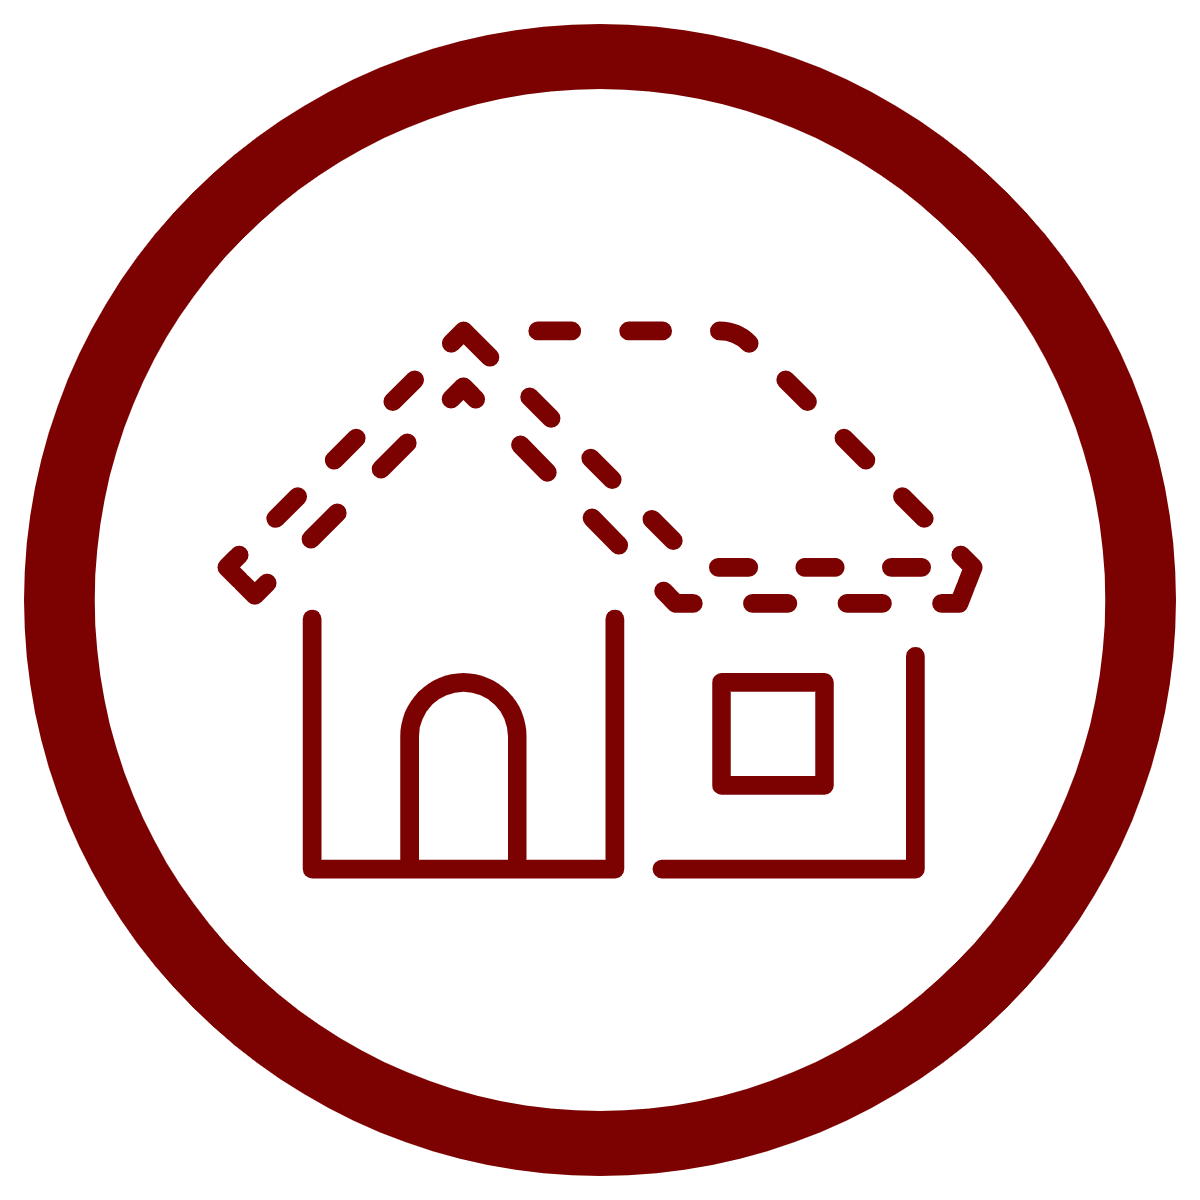
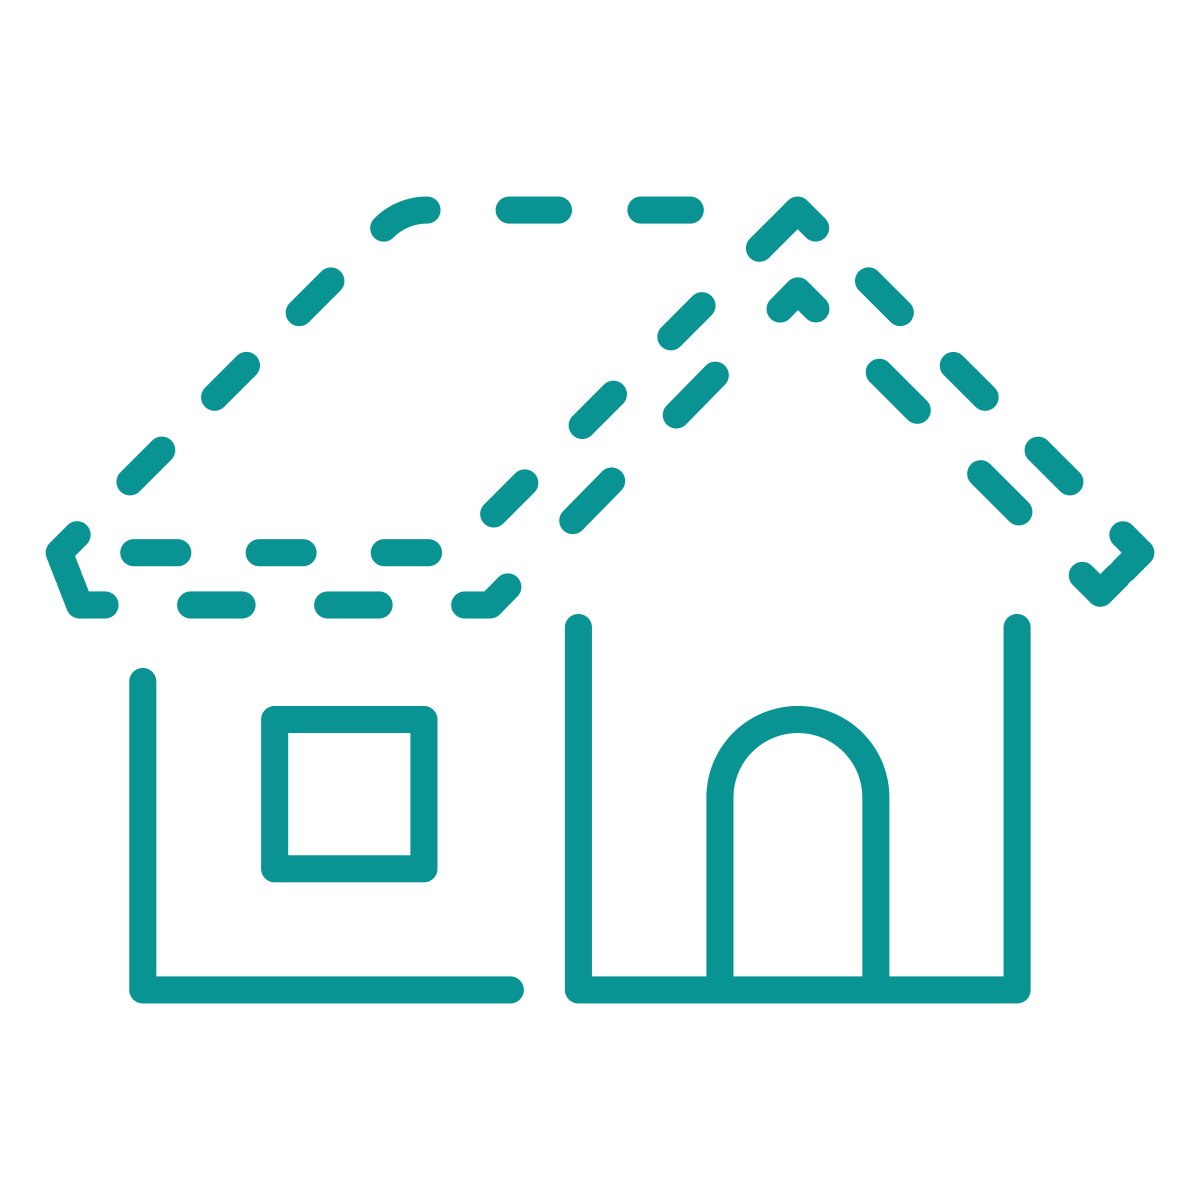
Redesign, shoutout kaylee

diff --git a/src/components/css/services.css b/src/components/css/services.css
@@ -1,35 +1,38 @@
 .container {
   height: auto;
   width: 100vw;
+  background-color: rgb(223, 223, 223);
 }
 
 .logoContainer {
   height: 150px;
   width: 100vw;
-  background-color: white;
+  background-color: whitesmoke;
 }
 /* end logo */
 
 .banner{
   height: 260px;
   width: 100vw;
-  background-image: linear-gradient(#a50101, #7c0101);
+  background-image: linear-gradient(#099393, #057272);
   display: flex;
   flex-direction: column;
 }
 
-.banner h2 {
-  color: whitesmoke;
-  text-align: center;
+.banner h1 {
+  color: #242424;
+  text-align: left;
   margin-bottom: 0px;
-  align-self: center;
+  align-self: left;
+  margin-left: 20px;
 }
 
 .banner p{
-color: whitesmoke;
-text-align: center;
-margin-top: 25px;
-align-self: center;
+color: #242424;
+text-align: left;
+margin-top: 10px;
+margin-left: 30px;
+align-self: left;
 }
 
 .camera{

diff --git a/src/App.css b/src/App.css
@@ -95,12 +95,12 @@
 }
 
 .topnav a:hover {
-  background-color: rgb(255, 185, 185);
+  background-color: #d1ffff;
   color: black;
   ;}
 
 .topnav a.active {
-  background-color: #b80000;
+  background-color: #099393;
   color: whitesmoke;
   opacity: 0.75;
 }
@@ -267,8 +267,7 @@ p {
 
 /* end images// start footer */
 .footer {
-  background-image: linear-gradient(rgb(58, 58, 58), rgb(126, 0, 0));
-  background-color: rgb(146, 0, 0);
+  background-color: rgb(31, 31, 31);
   width: 100vw;
   height: 33vh;
   display: flex;

diff --git a/src/components/cards/Other.js b/src/components/cards/Other.js
@@ -10,6 +10,8 @@ class Other extends Component {
 
     
 
+
+    
     constructor(props){
         super(props)
 
@@ -42,8 +44,8 @@ class Other extends Component {
                 <h2>Other Services</h2>
                 <Button
             style={{
-              color: "red",
-              borderColor: "red",
+              color: "#242424",
+              borderColor: "#242424",
               whiteSpace: 'nowrap',
               width: 'max'
             }}

diff --git a/src/components/Services.js b/src/components/Services.js
@@ -14,7 +14,7 @@ class Services extends Component {
       <div className="container">
         <div className="logoContainer"></div>
         <div className="banner">
-          <h2>We are here to help</h2>
+          <h1>We are here to help</h1>
           <p>Promotion: A FREE security system or H-E-B gift card with every Re-roof</p>
           <img src={camera} alt="Camera" className="camera"/>
         </div>

diff --git a/src/components/Contactus.js b/src/components/Contactus.js
@@ -8,6 +8,13 @@ class Contactus extends Component {
   render() {
     return (
       <div className="containerc">
+        <div className="logoContainer">
+
+        </div>
+        <div className="banner">
+<h1>Get in touch</h1>
+<p>Want to get in touch? We'd love to hear from you. Here's how you can reach us.</p>
+        </div>
           <Footer />
       </div>
     );

diff --git a/src/components/cards/Repairs.js b/src/components/cards/Repairs.js
@@ -38,8 +38,8 @@ class Repairs extends Component {
                 <h2>Types of Repairs</h2>
                 <Button
             style={{
-              color: "red",
-              borderColor: "red",
+              color: "#242424",
+              borderColor: "#242424",
               whiteSpace: 'nowrap',
               width: 'max'
             }}

diff --git a/src/components/cards/Types.js b/src/components/cards/Types.js
@@ -36,8 +36,8 @@ class Types extends Component {
           <h2>Types of Roofs</h2>
           <Button
             style={{
-              color: "red",
-              borderColor: "red",
+              color: "#242424",
+              borderColor: "#242424",
               whiteSpace: 'nowrap',
               width: 'max'
             }}

diff --git a/src/components/cards/cards.css b/src/components/cards/cards.css
@@ -16,7 +16,7 @@ flex-direction: column;
 }
 
 .card-container button:hover{
-    color:#000000;
+    color:#242424;
      background-color:#FFFFFF;
     
 }
@@ -38,4 +38,5 @@ flex-direction: column;
 }
 h2 {
     align-self: center;
+    color: #242424;
 }
